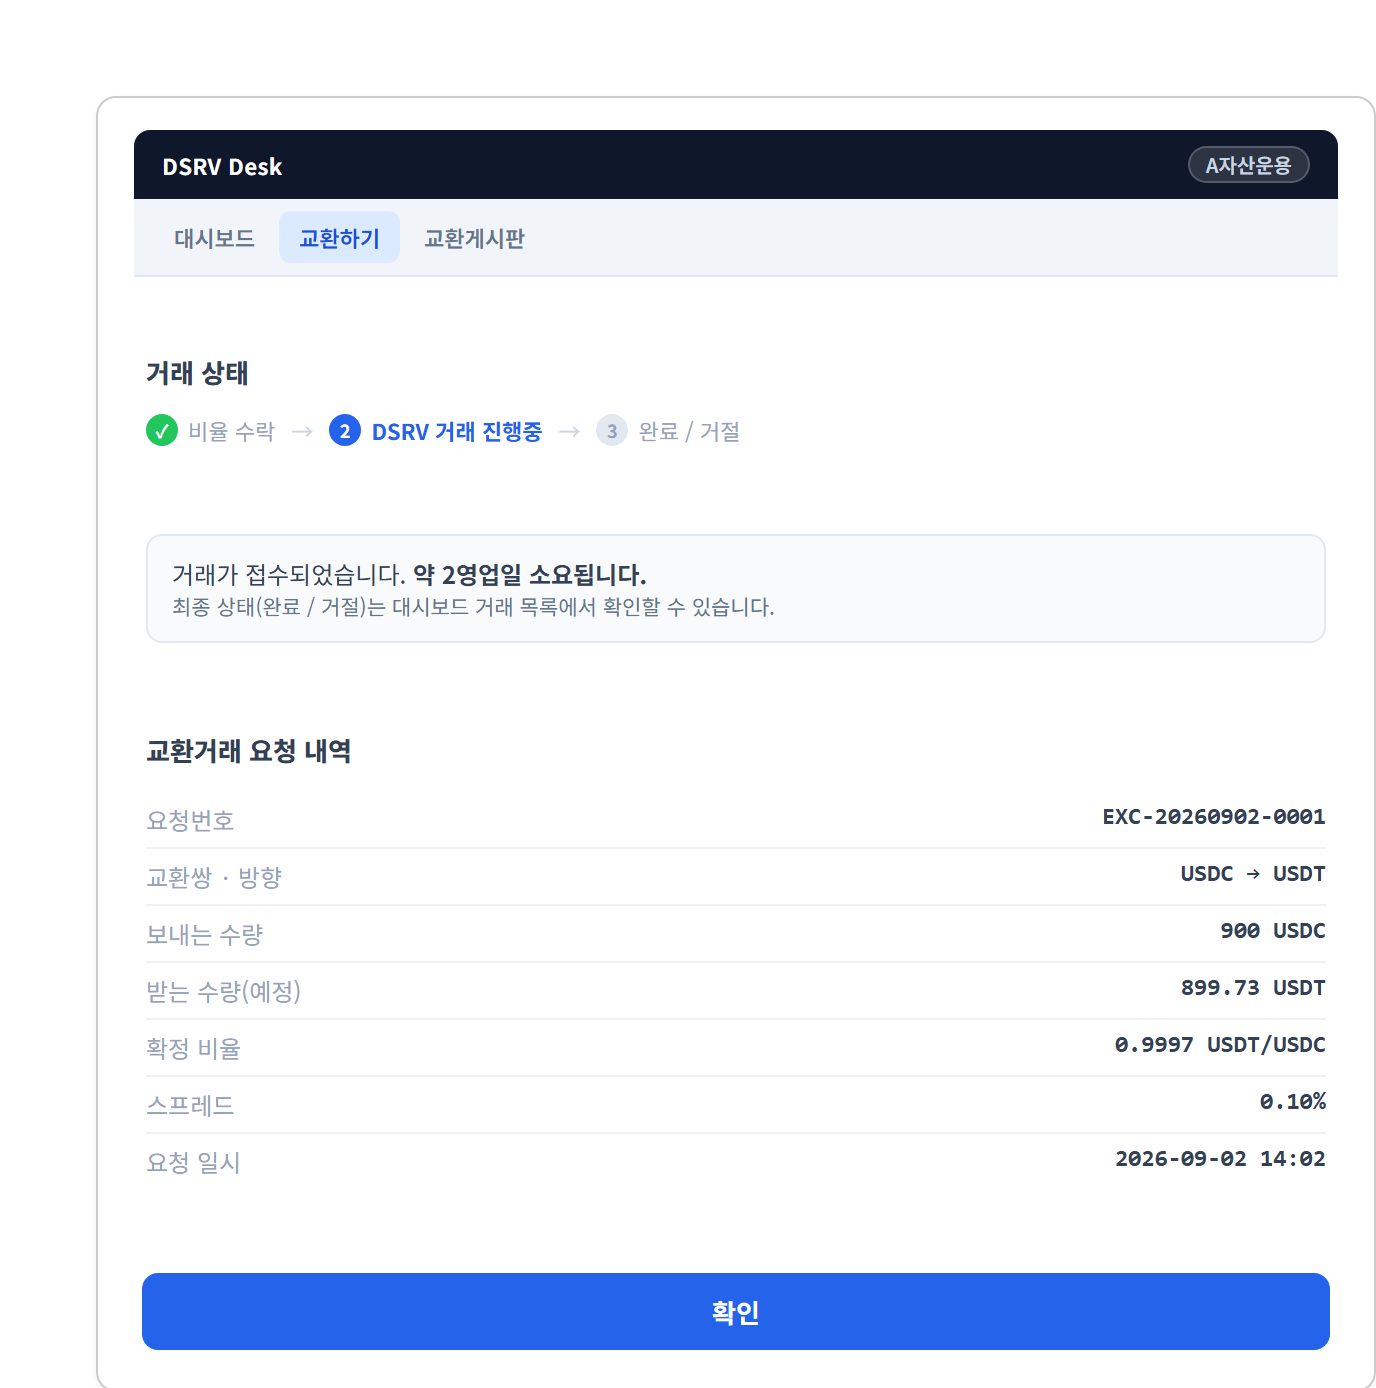
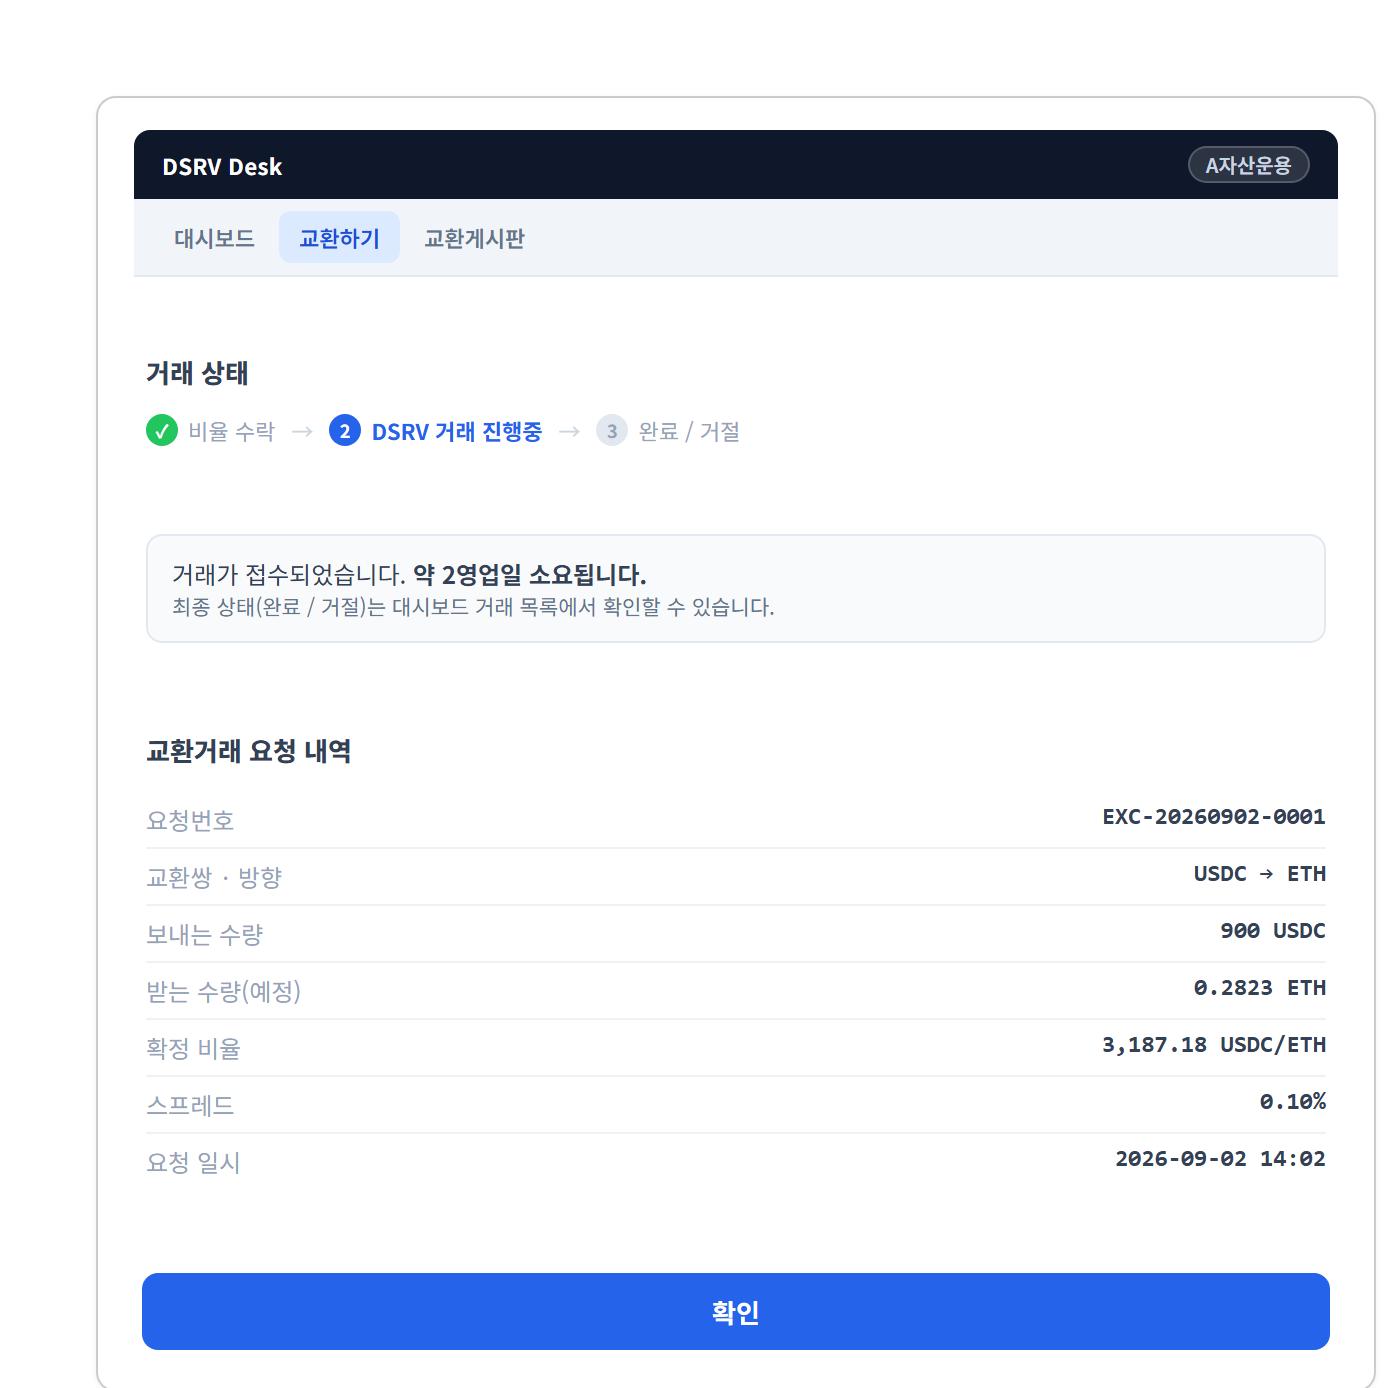
사업추진계획서 첨부 예시 자산 쌍 전면 교체 — USDC(고객) ↔ ETH
사용자 지시로 44 폴더의 그림·목업 14개를 USDC↔USDT에서 USDC(고객이 보냄) ↔ ETH 한 쌍으로 통일.

- A1 교환 흐름도: 900 USDC → 0.2826 ETH
- A2 중개 흐름도: 게시자 B사 0.3 ETH ↔ 신청자 A사 955.20 USDC (에스크로 예치·인도 수량 동반 갱신)
- B1~B4 EXC 목업: 참고 3,184.00 → 확정 3,187.18 USDC/ETH · 받는 수량 0.2826 → 0.2823 ETH
  · 교환 가능 풀 ETH 560.0000 · 발생 가스비 0.0019 ETH 차감(받는 자산이 ETH라 환산 병기 삭제)
- C0~C4 BRK 목업: 게시판 4행 ETH↔USDC · 게시 0.3 ETH ↔ 955.20 USDC(현 시세 3,190.40 · 편차 -0.20%)
  · 수수료 신청자 9.55 USDC / 게시자 0.0030 ETH · 예치 964.75 USDC / 0.3030 ETH
- N1·N2·N2b·N3은 자산 표기가 없어 변경 없음

스토리보드 원본·09 §0 예시 수량·QA 시트는 사용자 결정으로 유지 → 계획서 첨부와 수치가 다르다.
근거·가정(ETH 페어 스프레드 0.10% 미확정 · 시세·풀·보유 예시값)은 첨부 README에 기재.

diff --git a/drafts/44_사업추진계획서_첨부/README.md b/drafts/44_사업추진계획서_첨부/README.md
@@ -1,6 +1,6 @@
 # 사업추진계획서 첨부 자료 (Desk 서비스 설명)
 
-사업추진계획서(안) Ⅱ장의 【첨부 삽입 자리】에 넣을 그림과 화면 목업. 2026-09-11 작성.
+사업추진계획서(안) Ⅱ장의 【첨부 삽입 자리】에 넣을 그림과 화면 목업. 2026-09-11 작성 · 2026-09-15 예시 자산 쌍 개정.
 재생성 방법과 원본은 이 문서 맨 아래 「만드는 법」에 적어 두었다.
 
 ## 삽입 자리별 대응
@@ -24,6 +24,34 @@
 | N2b | Ⅱ.4.다 | (신규) 중개 거래의 종결 경로 5종 | 새로 제작 |
 | N3 | Ⅱ.5.가 | (신규) 자산 묶음 4개와 이동 경로 | 새로 제작 |
 
+## 예시 자산 쌍 (2026-09-15 개정)
+
+**이 폴더의 그림·목업은 전부 USDC(고객이 보냄) ↔ ETH 한 쌍만 쓴다**(사용자 지시).
+종전에는 나목이 USDC→USDT, 마목이 USDT↔USDC였다.
+
+| | 나목 교환 (A1 · B1~B4) | 마목 중개 (A2 · C0~C4) |
+|---|---|---|
+| 고객 A사 | 900 USDC 보냄 → ETH 받음 | 신청자 · 955.20 USDC 보냄 → 0.3 ETH 받음 |
+| 상대 | DSRV 교환 재고(콜드) | 게시자 B사 · 0.3 ETH 보냄 → 955.20 USDC 받음 |
+| 비율 | 참고 3,184.00 → 확정 3,187.18 USDC/ETH | 3,184.00 USDC/ETH (당사자 협의) |
+| 받는 수량 | 참고 0.2826 ETH → 확정 0.2823 ETH | 각 0.3 ETH / 955.20 USDC |
+| 수수료 | 없음(스프레드 0.10%에 내재) | 신청자 9.55 USDC · 게시자 0.0030 ETH (각자 1%) |
+
+산출 근거와 가정:
+
+- 기준가 **3,184.00 USDC/ETH**는 스토리보드가 이미 쓰던 값이다(brk-01·brk-02·exc-01 ETH 페어 예시).
+  ETH 페어 비율은 방향과 무관하게 「{스테이블}/ETH」 2자리로 적는다.
+- 확정 비율 3,187.18 = 3,184.00 × (1 + 스프레드 0.10%), 2자리 절사. 받는 수량은 900 ÷ 3,187.18 = 0.2823 ETH(4자리 절사).
+  ⚠ 별표 1 P3은 **ETH 페어 스프레드 요율을 아직 미정**으로 두고 있다. 0.10%는 스테이블 페어 값을 그대로 쓴 **가정**이다.
+- C1 게시 화면의 현 시세 3,190.40 USDC/ETH는 편차 −0.20%(허용 ±2.0% 이내)를 보이려고 **역산한 값**이다.
+- B1 교환 가능 풀 **ETH 560.0000**, C1 보유 **12.5000 ETH**는 화면을 채우기 위한 **예시값**이다.
+- 한도 판정: 955.20 USDC ≈ 1,289,520원, 900 USDC ≈ 1,215,000원(1 USDC ≈ 1,350원 **가정**) — 건별 한도 1,500,000원 상당 이내.
+- C0 게시판 목록 4행도 ETH↔USDC로 맞췄다(0.25/796.00 게재중 · 0.2/636.80 협의중 · 650/0.2041 내 게시 · 0.3/955.20 내 신청 = C2~C4의 그 건).
+
+**스토리보드 원본은 바꾸지 않았다**(2026-09-15 사용자 결정). `drafts/storyboard/` 24화면 · `knowledge/09 §0` 예시 수량 ·
+QA 시트 269 STEP은 USDC↔USDT를 그대로 쓴다. 따라서 **계획서 첨부의 수치와 스토리보드·QA의 수치는 서로 다르다**.
+이 폴더의 `_export/*_frame.html`만 고쳐서 재캡처한 것이고, 원본으로 되돌리려면 `_export/.bak_20260915/`에 사본이 있다.
+
 ## 배치 규격 (2026-09-15 개정)
 
 N1·N2·N2b·N3은 **A4 세로 문서의 본문 폭에 꽉 채워 넣는 것을 전제**로 다시 그렸다.
@@ -46,8 +74,9 @@ N1·N2·N2b·N3은 **A4 세로 문서의 본문 폭에 꽉 채워 넣는 것을 
 ## 넣기 전에 확인할 것
 
 1. **B4 정산 내역(완료) 수치**: EXC-04 상세내용에 받은 자산이 두 값으로 적혀 있다.
-   상태 변형 표는 「완료 = 899.73 USDT」, 항목 설명은 「가스비를 차감한 실수령액(예 893.77)」.
-   이 파일은 **899.73**으로 만들었다. 스토리보드 내부 불일치이므로 확정 후 재생성한다.
+   상태 변형 표는 「완료 = 확정 수량 그대로」, 항목 설명은 「가스비를 차감한 실수령액」이다.
+   이 파일은 확정 수량 **0.2823 ETH**로 만들었다(가스비 차감 시 0.2823 − 0.0019 = 0.2804 ETH).
+   스토리보드 내부 불일치이므로 확정 후 재생성한다.
 2. **B2 확정 견적 화면**: 계획서 Ⅱ.3.라·아는 견적 화면에 기준가와 스프레드를 구분 표시한다고 썼다.
    화면에는 스프레드는 별도 항목으로 있으나 기준가 절대값은 없다. 기준가를 낼지 결정이 필요하다.
 3. **C2 신청 화면**: 계획서 Ⅱ.4.마는 시세 참고자료를 양 당사자에게 동일 제공한다고 썼다.
@@ -74,5 +103,7 @@ N1·N2·N2b·N3은 **A4 세로 문서의 본문 폭에 꽉 채워 넣는 것을 
 - 화면 목업: 화면 html에서 `.frame` 요소만 잘라 `screen.css`와 함께 단독 페이지로 만들고,
   ▼ 주석과 그 아래 조건부 요소를 스크립트로 지운 뒤 Windows Chrome headless로 2배 해상도 캡처했다.
 - 신규 3종: `_diag.css`를 공유하는 HTML 페이지로 그리고 같은 방식으로 캡처했다.
-- 캡처 명령: `chrome.exe --headless=new --force-device-scale-factor=2 --window-size=W,H --screenshot`
+- 캡처 명령: `chrome.exe --headless=new --hide-scrollbars --force-device-scale-factor=2 --window-size=W,H --screenshot`
   높이는 페이지가 `document.title`에 실제 높이를 넣게 해서 1차 `--dump-dom`으로 읽고 2차에 적용한다.
+  **폭은 692**(`.frame` 640 + 테두리 2 + body padding 48). 좁게 잡으면 프레임 오른쪽이 잘린다.
+  `--hide-scrollbars`를 빼면 스크롤바가 찍혀 폭이 어긋난다. A1·A2는 SVG 크기대로 580×210 / 580×220.
